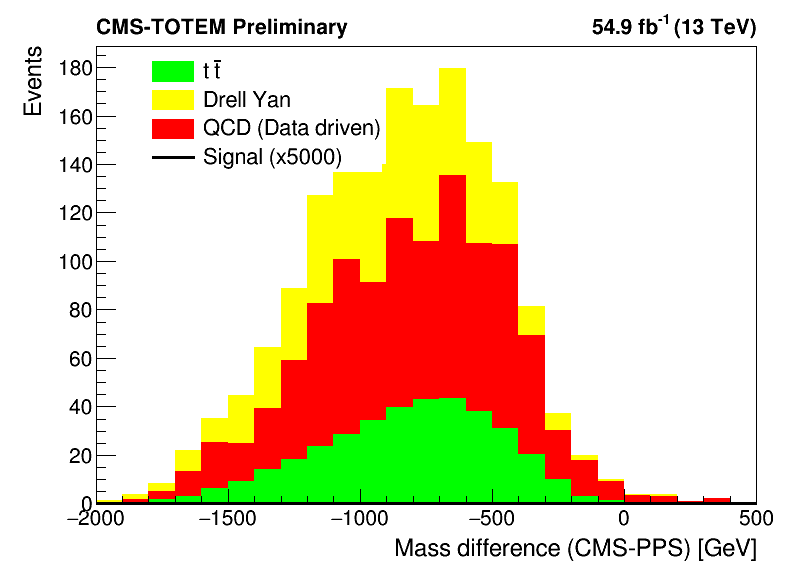
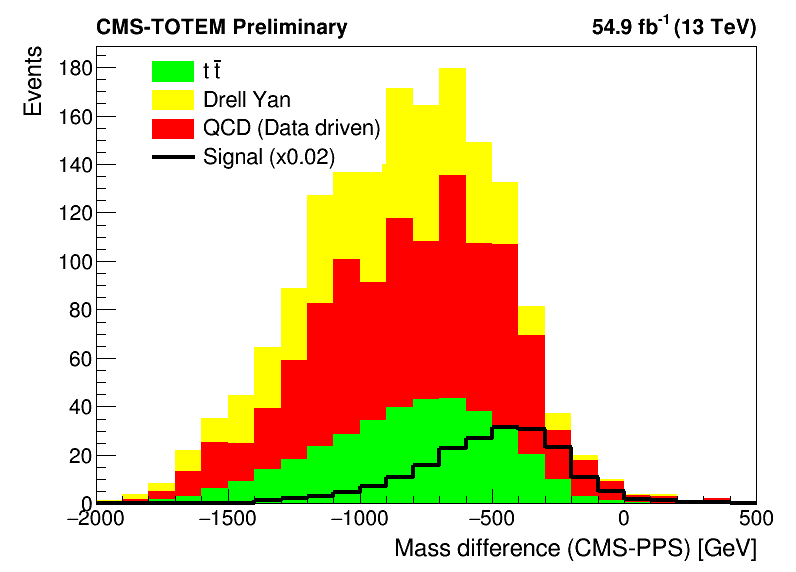
fix etau signal scaling

Changed region(s): [[0.3015, 0.8322, 0.9347, 0.8916], [0.5126, 0.743, 0.7236, 0.8322], [0.3618, 0.2378, 0.4221, 0.2972]]

diff --git a/ETau_channel/plot_m_new.cpp b/ETau_channel/plot_m_new.cpp
@@ -251,11 +251,48 @@ int main(){
 
     cout << "Processing " << n_evt_sinal << " signal events..." << endl;
     
+    // Check what weight branches are available in the signal tree
+    cout << "Checking available weight branches in signal tree:" << endl;
+    for(int i = 0; i < tree_sinal->GetListOfBranches()->GetEntries(); i++){
+        TString branchName = tree_sinal->GetListOfBranches()->At(i)->GetName();
+        if(branchName.Contains("weight") || branchName.Contains("Weight")){
+            cout << "  Found weight branch: " << branchName << endl;
+        }
+    }
+    
     // Fill signal histograms
+    double signal_weight_sum = 0;
+    int events_with_nonzero_weight = 0;
     for(int i = 0; i < n_evt_sinal; i++){
         int o = tree_sinal->GetEvent(i);
         if(tree_sinal->GetLeaf("sist_mass")->GetValue(0) >= 0){
-            w_sinal = tree_sinal->GetLeaf("weight_sm")->GetValue(0) * 5000;
+            // Try different weight branch names
+            double base_weight = 0;
+            if(tree_sinal->GetLeaf("weight_sm")) {
+                base_weight = tree_sinal->GetLeaf("weight_sm")->GetValue(0);
+            }
+            
+            // If weight_sm is zero, try weights_bsm_sf or use unit weight
+            if(base_weight == 0) {
+                if(tree_sinal->GetLeaf("weights_bsm_sf")) {
+                    base_weight = tree_sinal->GetLeaf("weights_bsm_sf")->GetValue(0);
+                }
+                if(base_weight == 0) {
+                    // Use unit weight if all weights are zero
+                    base_weight = 1.0;
+                }
+            }
+            
+            w_sinal = base_weight * 0.02;  // Slightly larger to make signal more visible
+            signal_weight_sum += w_sinal;
+            if(w_sinal > 0) events_with_nonzero_weight++;
+            
+            // Debug: print first few signal weights and some physics variables
+            if(i < 10) {
+                cout << "Event " << i << ": mass=" << tree_sinal->GetLeaf("sist_mass")->GetValue(0) 
+                     << ", base_weight=" << base_weight << ", final_weight=" << w_sinal << endl;
+            }
+            
             m_sinal.Fill(tree_sinal->GetLeaf("sist_mass")->GetValue(0), w_sinal);
             aco_sinal.Fill(tree_sinal->GetLeaf("sist_acop")->GetValue(0), w_sinal);
             r_sinal.Fill(tree_sinal->GetLeaf("sist_rap")->GetValue(0) - 0.5*log(tree_sinal->GetLeaf("xi_arm1_1")->GetValue(0)/tree_sinal->GetLeaf("xi_arm2_1")->GetValue(0)), w_sinal);
@@ -267,6 +304,9 @@ int main(){
         }
     }
     cout << "Signal events processed successfully" << endl;
+    cout << "Events with non-zero weight: " << events_with_nonzero_weight << " out of " << n_evt_sinal << endl;
+    cout << "Total signal weight sum: " << signal_weight_sum << endl;
+    cout << "Signal histogram integrals: mass=" << m_sinal.Integral() << ", aco=" << aco_sinal.Integral() << endl;
 
     // Set signal histogram properties
     m_sinal.SetLineColor(kBlack); aco_sinal.SetLineColor(kBlack);
@@ -312,11 +352,19 @@ int main(){
         legend->AddEntry((TH1D*)stack->GetHists()->At(0), "t #bar{t}", "f");
         legend->AddEntry((TH1D*)stack->GetHists()->At(2), "Drell Yan", "f");
         legend->AddEntry((TH1D*)stack->GetHists()->At(1), "QCD (Data driven)", "f");
-        legend->AddEntry(signal, "Signal (x5000)", "l");
+        legend->AddEntry(signal, "Signal (x0.02)", "l");
         
         stack->Draw("histo");
         signal->Draw("same histo");
-        signal->SetLineWidth(3);
+        signal->SetLineWidth(4);
+        signal->SetLineColor(kBlack);
+        
+        // Ensure signal is visible by checking if it has entries
+        if(signal->Integral() > 0) {
+            cout << "Drawing signal with integral: " << signal->Integral() << endl;
+        } else {
+            cout << "Warning: Signal histogram is empty!" << endl;
+        }
         
         stack->GetXaxis()->SetTitle(xtitle.c_str());
         stack->GetYaxis()->SetTitle(ytitle.c_str());
@@ -328,7 +376,12 @@ int main(){
         stack->GetYaxis()->SetLabelSize(0.04);
         stack->GetXaxis()->SetTitleOffset(1.1);
         stack->GetYaxis()->SetTitleOffset(1.1);
-        stack->GetYaxis()->SetRangeUser(0.1, 200);
+        
+        // Set y-axis range dynamically based on both background and signal
+        double max_background = stack->GetMaximum();
+        double max_signal = signal->GetMaximum();
+        double y_max = max(max_background, max_signal) * 1.2;  // 20% headroom
+        stack->GetYaxis()->SetRangeUser(0.1, y_max);
         
         legend->Draw();
         
